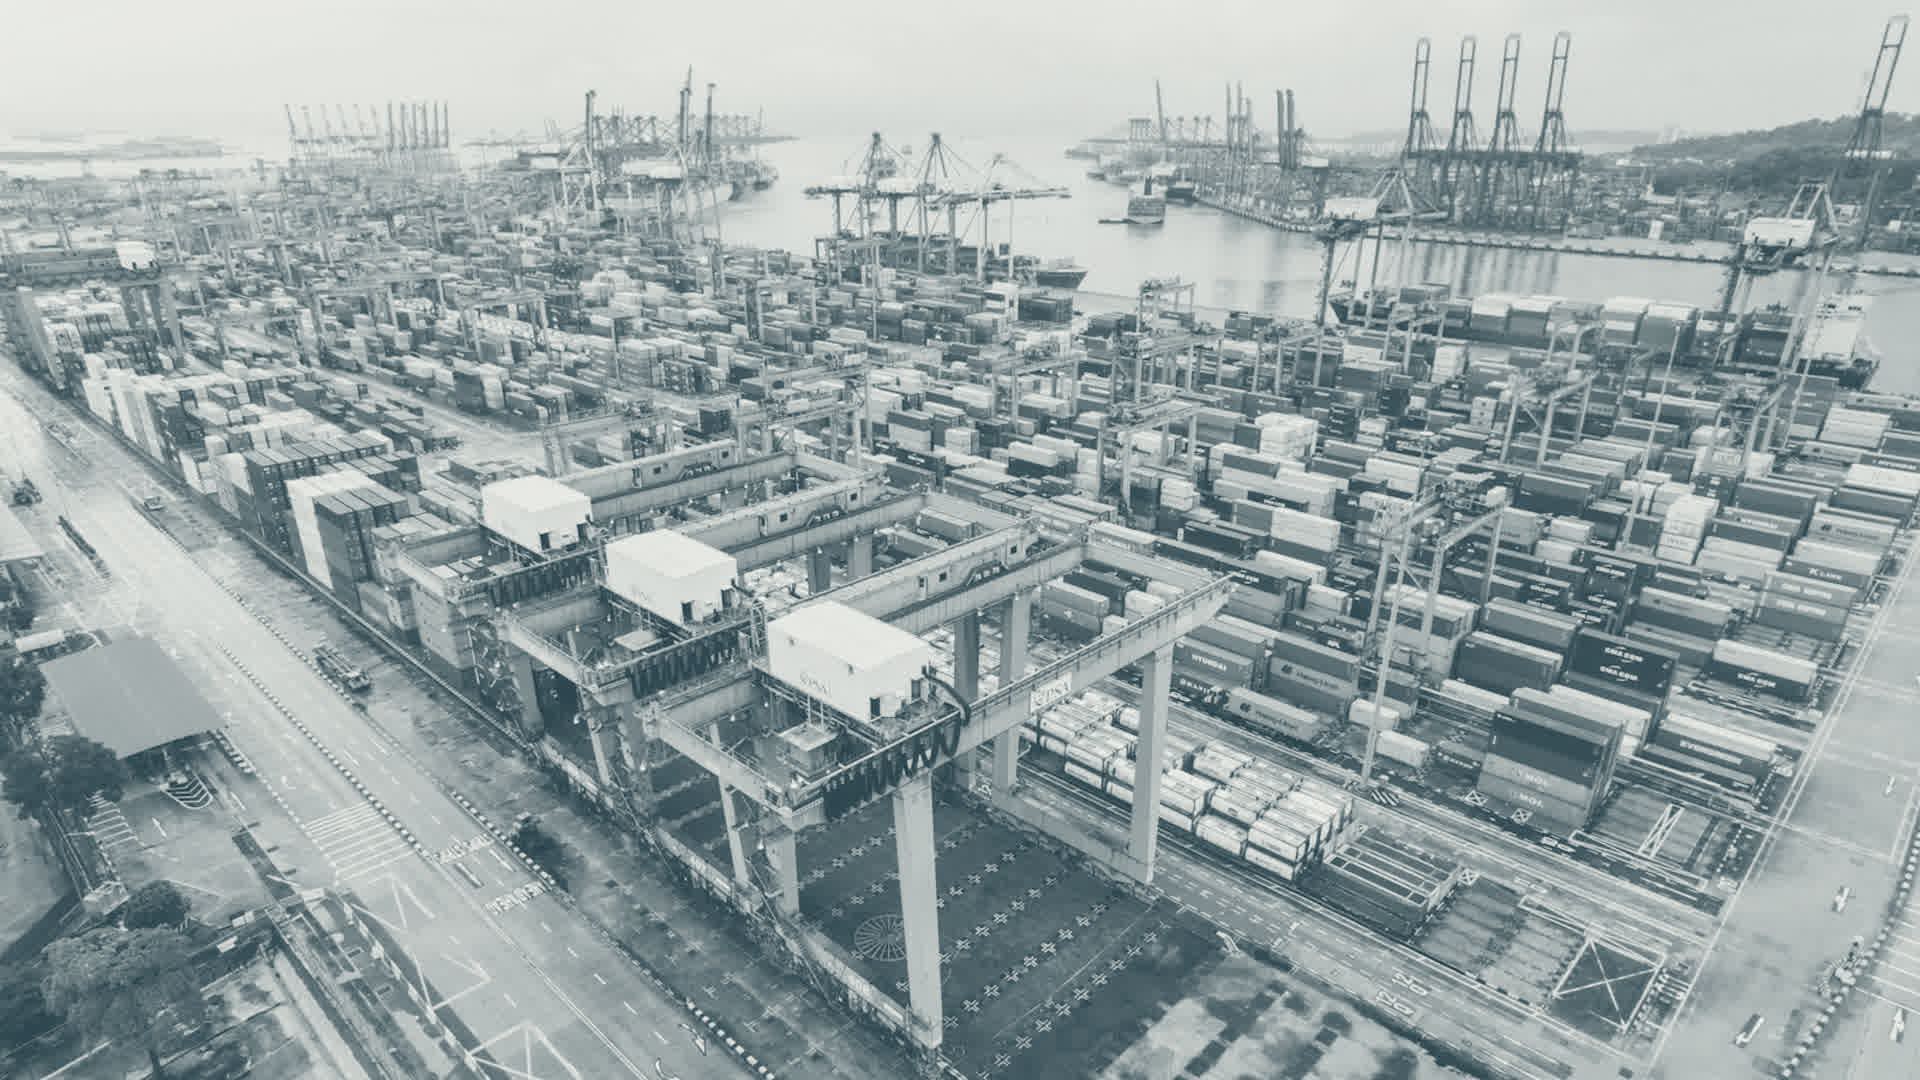
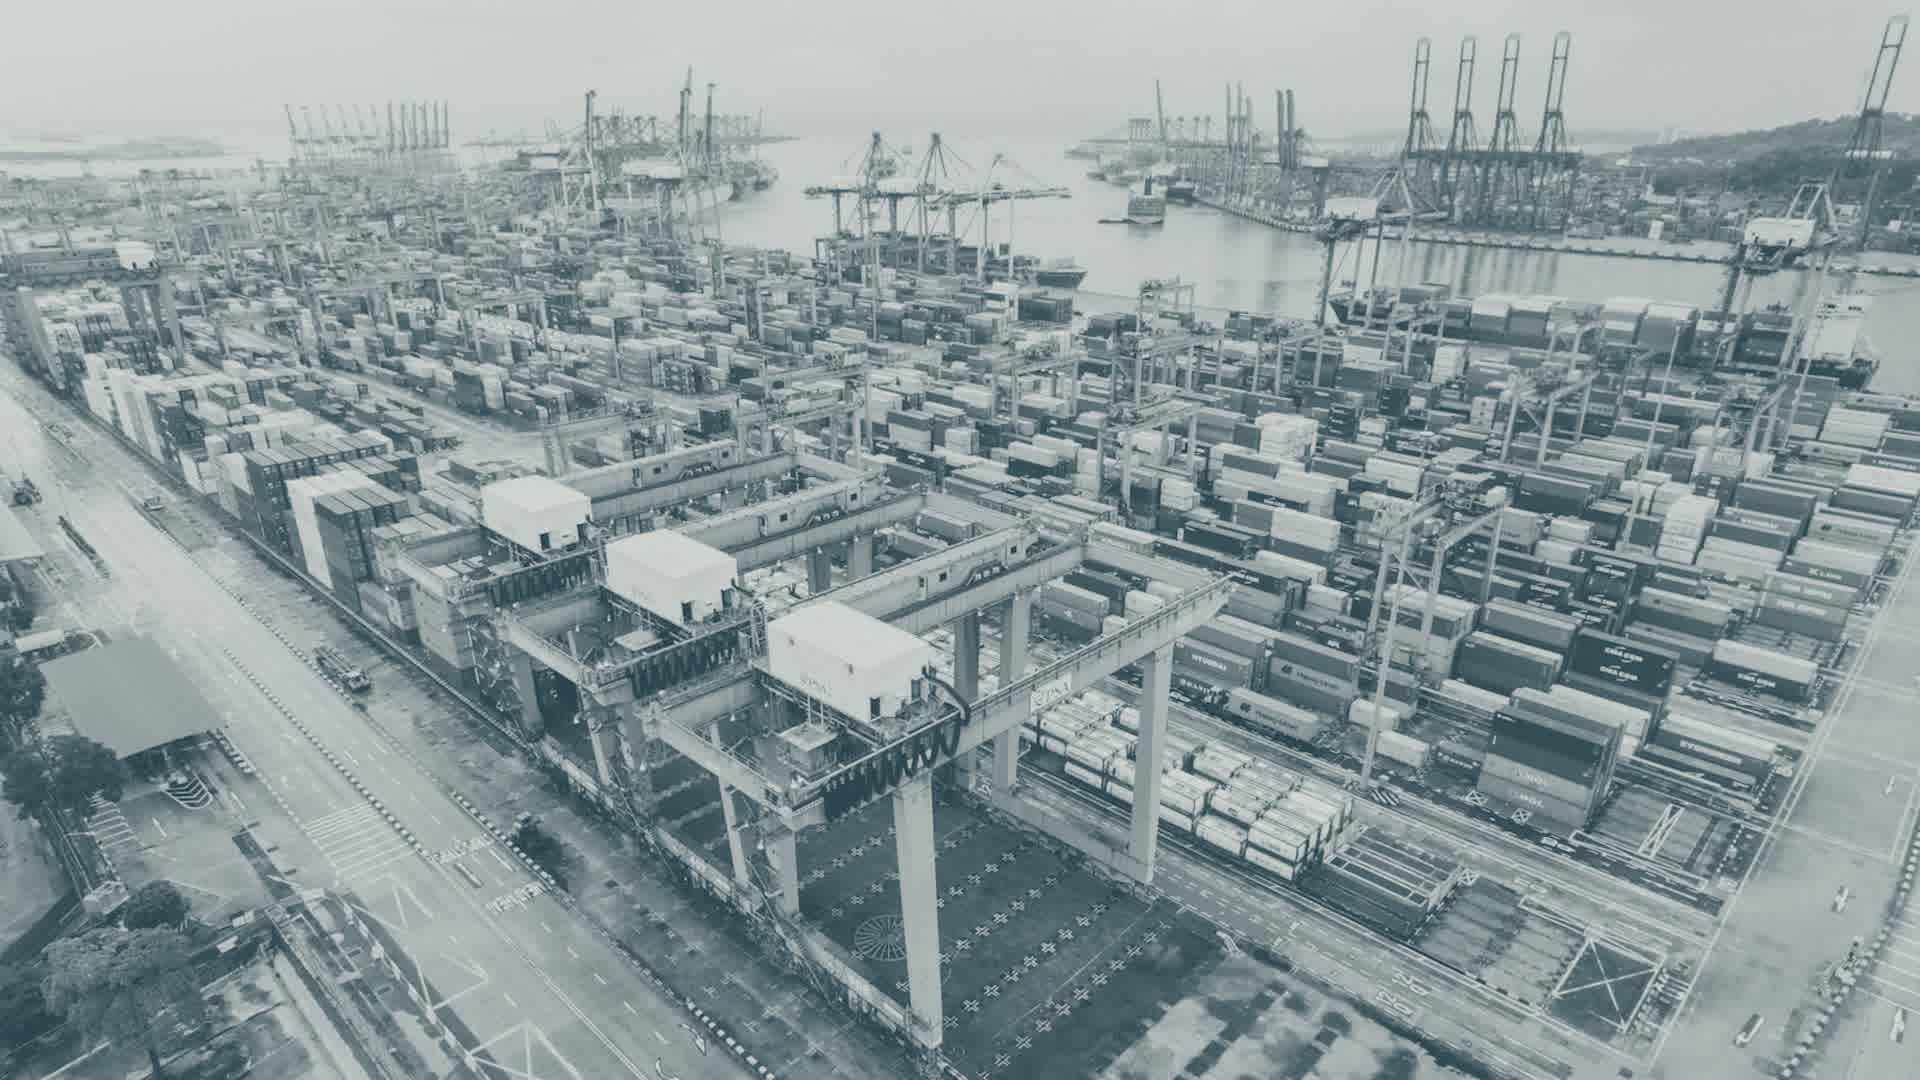
Apply v3.0 cinematic film hero — the physical world behind, the paperwork in front
Full-bleed ink-duotone terminal hero: duotone-graded quayside poster
(shadows #16313D, highlights #F7F6F1, +2% grain, ≤160KB) behind a 65%
ink scrim with the locked foreground set paper-on-ink. Video plumbing
ships ready behind CONFIG.heroLoopUrl (muted playsinline loop,
preload=metadata, 0.75x playback) with mobile / reduced-motion /
Save-Data always taking the poster still; until the loop is produced,
desktop runs the sanctioned 40s Ken Burns 1.0->1.04 on the poster.

The seam between film-world and paper-world is a hard 2px paper rule;
the document pile peeks across it. Scroll cue retired (not in the v3.0
foreground set; the pile itself says the job arrives). Poster preloaded
per-viewport as the LCP element; pre-render skeleton repainted to the
identical ink frame so first paint matches hydration, theme-color to
ink, skeleton copy synced (no stand implication, trimmed body).

Claude-Session: https://claude.ai/code/session_01LbsZKxpbDb4KPrzZKdRnHP

diff --git a/src/index.css b/src/index.css
@@ -232,7 +232,6 @@ main,
 .multimodal-bar,
 .mono-note,
 .price-cue,
-.scroll-cue,
 .kicker,
 .type-caption,
 .entry-grid,
@@ -373,27 +372,99 @@ main,
   transform: translateY(-1px);
 }
 
+/* v3.0 §2 — the film hero: ink world behind a scrim, paper type in front,
+   and a hard 2px paper rule as the seam where the page returns to the form. */
 .hero-section {
   position: relative;
   display: grid;
   place-items: center;
-  min-height: 92svh;
-  padding: 92px 24px 130px;
+  /* full-bleed film, but the fold must still show the CTAs under the header stack */
+  min-height: calc(100svh - 116px);
+  padding: 72px 24px 150px;
   overflow: clip;
   text-align: center;
-  border-bottom: var(--border-w) solid var(--ink);
+  color: var(--paper);
+  background: var(--ink);
+  border-bottom: var(--frame-w) solid var(--paper);
+}
+
+.hero-media {
+  position: absolute;
+  inset: 0;
+  overflow: hidden;
+  pointer-events: none;
+}
+
+.hero-film,
+.hero-poster {
+  position: absolute;
+  inset: 0;
+  width: 100%;
+  height: 100%;
+  object-fit: cover;
+}
+
+/* Ken Burns fallback until the loop ships: 40s, 1.0 -> 1.04, desktop only */
+@media (min-width: 981px) and (prefers-reduced-motion: no-preference) {
+  .hero-poster {
+    animation: hero-drift 40s var(--ease-inout) infinite alternate;
+  }
+}
+
+@keyframes hero-drift {
+  from {
+    transform: scale(1);
+  }
+  to {
+    transform: scale(1.04);
+  }
+}
+
+/* 65% ink scrim — AA verified against the brightest frame */
+.hero-scrim {
+  position: absolute;
+  inset: 0;
+  background: rgb(22 49 61 / 0.65);
 }
 
 .hero-copy {
+  position: relative;
   display: grid;
   justify-items: center;
   gap: 22px;
   max-width: 980px;
+  z-index: 1;
+}
+
+.hero-section .kicker,
+.hero-section .price-cue {
+  color: rgb(247 246 241 / 0.78);
+}
+
+.hero-section .hero-title {
+  color: var(--paper);
+}
+
+.hero-section .hero-support {
+  color: var(--paper);
+}
+
+.hero-section .hero-body {
+  color: rgb(247 246 241 / 0.92);
+}
+
+.hero-section .btn-secondary {
+  color: var(--paper);
+  border-color: var(--paper);
+}
+
+.hero-section .btn-secondary:hover {
+  color: var(--ink);
+  background: var(--paper);
 }
 
 .kicker,
 .price-cue,
-.scroll-cue,
 .mono-note {
   color: var(--muted);
   font-size: 13px;
@@ -440,6 +511,10 @@ main,
   max-width: 58ch;
   margin-inline: auto;
   font-size: 18px;
+}
+
+.price-cue {
+  max-width: none;
 }
 
 .hero-footnote {
@@ -521,14 +596,6 @@ main,
   to {
     transform: rotate(0.4deg);
   }
-}
-
-.scroll-cue {
-  position: absolute;
-  bottom: 20px;
-  left: 50%;
-  translate: -50% 0;
-  font-size: 11px;
 }
 
 .box {

diff --git a/src/App.tsx b/src/App.tsx
@@ -336,9 +336,61 @@ function TestimonialStrip() {
   )
 }
 
+// v3.0 §2 — the ink-duotone film hero: the physical world behind, the paperwork in front.
+// Mobile, reduced-motion and Save-Data always get the poster still; it is the LCP element.
+function HeroMedia() {
+  const videoRef = useRef<HTMLVideoElement>(null)
+  const [filmAllowed, setFilmAllowed] = useState(false)
+
+  useEffect(() => {
+    if (!isConfigured(CONFIG.heroLoopUrl)) return
+    const reduceMotion = window.matchMedia('(prefers-reduced-motion: reduce)').matches
+    const wide = window.matchMedia('(min-width: 981px)').matches
+    const connection = (navigator as { connection?: { saveData?: boolean } }).connection
+    const saveData = Boolean(connection?.saveData)
+    setFilmAllowed(wide && !reduceMotion && !saveData)
+  }, [])
+
+  useEffect(() => {
+    // 0.75× — the terminal moves at dawn pace, not showreel pace
+    if (filmAllowed && videoRef.current) videoRef.current.playbackRate = 0.75
+  }, [filmAllowed])
+
+  return (
+    <div className="hero-media" aria-hidden="true">
+      {filmAllowed ? (
+        <video
+          className="hero-film"
+          ref={videoRef}
+          src={CONFIG.heroLoopUrl}
+          poster={appPath(CONFIG.heroPosterWide)}
+          autoPlay
+          muted
+          playsInline
+          loop
+          preload="metadata"
+        />
+      ) : (
+        <picture>
+          <source media="(max-width: 980px)" srcSet={appPath(CONFIG.heroPosterTall)} />
+          <img
+            className="hero-poster"
+            src={appPath(CONFIG.heroPosterWide)}
+            alt=""
+            fetchPriority="high"
+            decoding="async"
+          />
+        </picture>
+      )}
+      <div className="hero-scrim" />
+    </div>
+  )
+}
+
 function Hero({ mailto, source }: { mailto: string; source: string }) {
   return (
     <section className="hero-section" id="top" aria-labelledby="hero-title">
+      <HeroMedia />
       <div className="hero-copy">
         <p className="kicker reveal">FOR CUSTOMS BROKERS & FREIGHT FORWARDERS WHO CLEAR THEIR OWN ENTRIES</p>
         <h1 className="hero-title" id="hero-title">
@@ -371,7 +423,6 @@ function Hero({ mailto, source }: { mailto: string; source: string }) {
           </div>
         ))}
       </div>
-      <p className="scroll-cue">SCROLL — THE JOB ARRIVES ▾</p>
     </section>
   )
 }

diff --git a/index.html b/index.html
@@ -8,9 +8,24 @@
       content="Declarix turns customer paperwork into an entry-ready pack for Sequoia or Descartes. Up to 3× the entries per clerk, cost per declaration down from £7.95 to £2.45 labour, nothing stored."
     />
     <meta name="robots" content="index,follow" />
-    <meta name="theme-color" content="#F7F6F1" />
+    <meta name="theme-color" content="#16313D" />
     <link rel="canonical" href="https://getdeclarix.com/" />
     <link rel="icon" type="image/svg+xml" href="%BASE_URL%favicon.svg" />
+    <!-- v3.0 §2 — the poster is the LCP element; preload the frame the viewport will use -->
+    <link
+      rel="preload"
+      as="image"
+      href="%BASE_URL%exhibits/hero-terminal-1920.jpg"
+      media="(min-width: 981px)"
+      fetchpriority="high"
+    />
+    <link
+      rel="preload"
+      as="image"
+      href="%BASE_URL%exhibits/hero-terminal-1080.jpg"
+      media="(max-width: 980px)"
+      fetchpriority="high"
+    />
     <meta property="og:type" content="website" />
     <meta property="og:title" content="Declarix — up to 3× the entries per clerk, no new headcount" />
     <meta
@@ -82,9 +97,14 @@
       .pre-render-hero {
         display: grid;
         place-items: center;
-        min-height: 78svh;
+        min-height: 82svh;
         padding: 48px 20px;
         text-align: center;
+        color: var(--paper);
+        background:
+          linear-gradient(rgb(22 49 61 / 0.6), rgb(22 49 61 / 0.6)),
+          var(--ink) url('%BASE_URL%exhibits/hero-terminal-1920.jpg') center / cover no-repeat;
+        border-bottom: 2px solid var(--paper);
       }
 
       .pre-render-hero > div {
@@ -96,7 +116,7 @@
 
       .pre-render-kicker,
       .pre-render-price {
-        color: var(--muted);
+        color: rgb(247 246 241 / 0.78);
         font: 12px ui-monospace, SFMono-Regular, Menlo, Consolas, monospace;
         letter-spacing: 0.1em;
       }
@@ -133,8 +153,8 @@
 
       .pre-render-ctas a {
         padding: 16px 24px;
-        border: 1.5px solid var(--ink);
-        color: var(--ink);
+        border: 1.5px solid var(--paper);
+        color: var(--paper);
         font: 12px ui-monospace, SFMono-Regular, Menlo, Consolas, monospace;
         font-weight: 700;
         letter-spacing: 0.08em;
@@ -160,6 +180,12 @@
         .pre-render-hero h1 {
           font-size: clamp(34px, 11.5vw, 48px);
         }
+
+        .pre-render-hero {
+          background:
+            linear-gradient(rgb(22 49 61 / 0.6), rgb(22 49 61 / 0.6)),
+            var(--ink) url('%BASE_URL%exhibits/hero-terminal-1080.jpg') center / cover no-repeat;
+        }
       }
     </style>
   </head>
@@ -170,9 +196,9 @@
           <div class="pre-render-wordmark">DECLARIX</div>
           <a class="pre-render-book" href="#book">BOOK THE CALL</a>
         </header>
-        <div class="pre-render-issue">FORM DCLRX-H1 · ISSUE 2.4</div>
+        <div class="pre-render-issue">FORM DCLRX-H1 · ISSUE 2.5</div>
         <div class="pre-render-bar">
-          MET US AT MULTIMODAL (NEC · 30 JUN–2 JUL)? Mention it when you book — we'll bring your stand notes to the call. →
+          MET US AT MULTIMODAL (NEC · 30 JUN–2 JUL)? Mention it when you book — we'll pick up where the conversation left off. →
         </div>
         <main class="pre-render-hero">
           <div>
@@ -181,8 +207,8 @@
             <p><strong>No new headcount. More margin on every declaration.</strong></p>
             <p>
               Declarix reads the whole job — any file, straight off a forwarded email — and returns an
-              entry-ready pack for Sequoia or Descartes, evidence pinned to every field. Your clerk
-              checks it in minutes instead of keying it for the best part of an hour.
+              entry-ready pack for Sequoia or Descartes. Your clerk checks it in minutes instead of
+              keying it for the best part of an hour.
             </p>
             <div class="pre-render-price">PRICED PER ENTRY, NOT PER SEAT · PILOT: FREE IF IT FAILS</div>
             <div class="pre-render-ctas">

diff --git a/src/config.ts b/src/config.ts
@@ -17,6 +17,11 @@ export const CONFIG = {
   founderName: 'Ihusan Adam',
   // v2.5 B1.2 — real duotone portrait path once approved; empty renders no exhibit
   founderPortrait: '',
+  // v3.0 §2 — the 8-10s duotone terminal loop (≤2.5MB, H.265/VP9). Empty ships the
+  // poster still with the 40s Ken Burns fallback; drop the file in and the film plays.
+  heroLoopUrl: '',
+  heroPosterWide: '/exhibits/hero-terminal-1920.jpg',
+  heroPosterTall: '/exhibits/hero-terminal-1080.jpg',
   // v3.0 §1 — ICC finalist confirmed; year ships as a find-replace token
   iccFinalistYear: '{{YEAR}}',
   // v2.5 B1.8 — /security page truths still owed by the desk